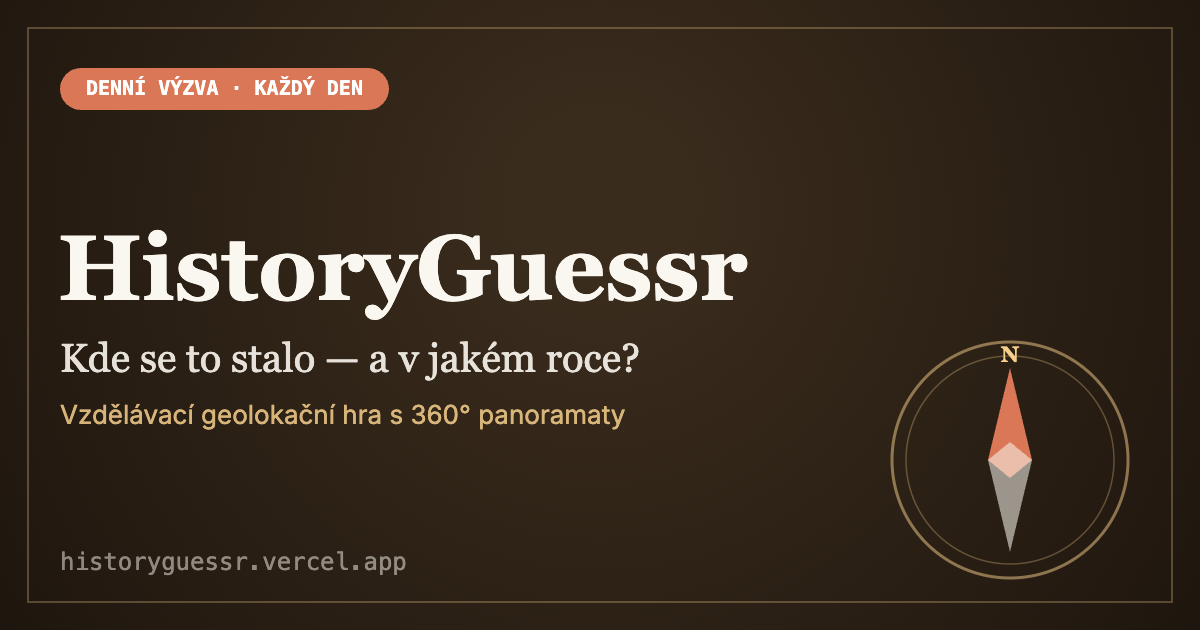
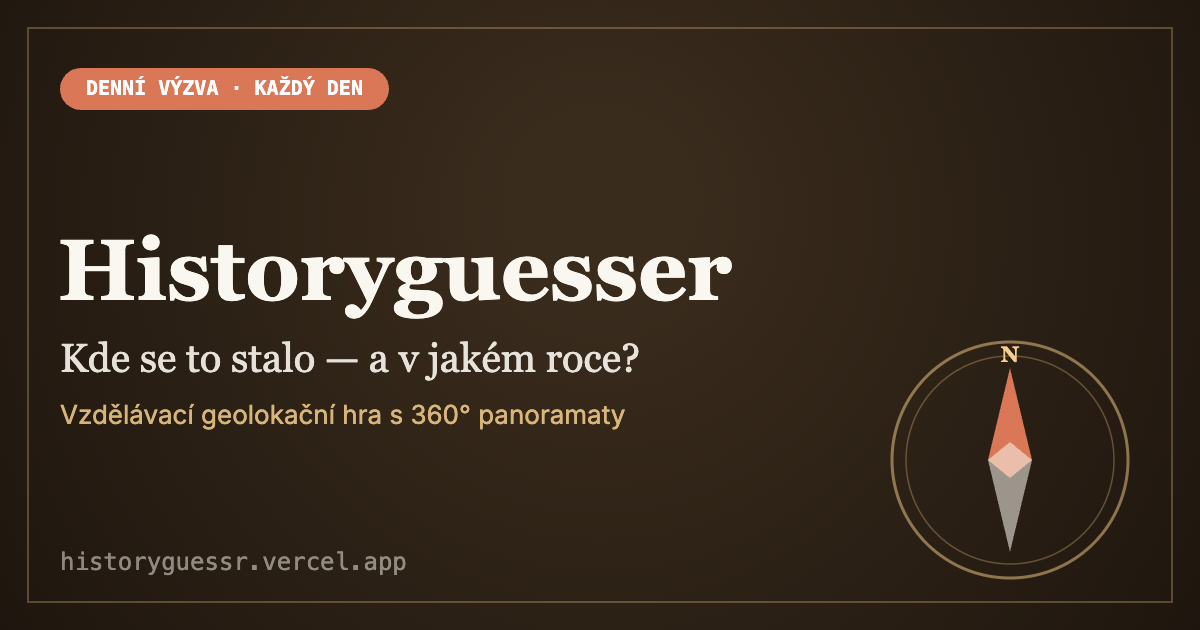
UX + rebrand: mobilní hfov, potvrzení hodnocení, „Historyguesser", AI styl
1) Panorama hfov na mobilu 140→126 (desktop 150 beze změny)
2) Hvězdičkové hodnocení: klik jen vybere, odešle se až tlačítkem „Potvrdit"
3) Přejmenování HistoryGuessr → Historyguesser (UI, meta, manifest, og.png,
   share karta); URL/repo/infra zůstávají
4) AI popis událostí: strhující vyprávěcí styl à la „Životy slavných"
   (generate-event.ts system prompt + temperature 0.2→0.55)

Changed region(s): [[0.0308, 0.3619, 0.6475, 0.5127]]

diff --git a/src/i18n/resources.ts b/src/i18n/resources.ts
@@ -7,7 +7,7 @@ export const resources = {
       lastUpdated: 'Poslední aktualizace',
       privacy: {
         title: 'Zásady ochrany osobních údajů',
-        s1t: '1. Kdo jsme', s1b: 'HistoryGuessr je vzdělávací webová hra dostupná na adrese historyguessr.vercel.app. Provozovatelem aplikace je Matouš Bahník, Liberec, IČO: 21213887.',
+        s1t: '1. Kdo jsme', s1b: 'Historyguesser je vzdělávací webová hra dostupná na adrese historyguessr.vercel.app. Provozovatelem aplikace je Matouš Bahník, Liberec, IČO: 21213887.',
         s2t: '2. Jaké údaje sbíráme', s2intro: 'Při registraci a používání aplikace shromažďujeme:',
         s2i1: 'E-mailová adresa', s2i1d: ' — pro přihlášení a komunikaci',
         s2i2: 'Uživatelské jméno', s2i2d: ' — zobrazované v žebříčcích',
@@ -26,8 +26,8 @@ export const resources = {
       },
       terms: {
         title: 'Podmínky použití',
-        s1t: '1. Přijetí podmínek', s1b: 'Používáním aplikace HistoryGuessr souhlasíte s těmito podmínkami použití. Pokud nesouhlasíte, aplikaci prosím nepoužívejte.',
-        s2t: '2. Popis služby', s2b: 'HistoryGuessr je bezplatná vzdělávací hra, ve které hráči tipují polohu a rok historických událostí na základě 360° panoramatických fotografií.',
+        s1t: '1. Přijetí podmínek', s1b: 'Používáním aplikace Historyguesser souhlasíte s těmito podmínkami použití. Pokud nesouhlasíte, aplikaci prosím nepoužívejte.',
+        s2t: '2. Popis služby', s2b: 'Historyguesser je bezplatná vzdělávací hra, ve které hráči tipují polohu a rok historických událostí na základě 360° panoramatických fotografií.',
         s3t: '3. Uživatelský účet',
         s3i1: 'Registrace vyžaduje platnou e-mailovou adresu',
         s3i2: 'Za bezpečnost svého účtu a hesla odpovídáte vy',
@@ -87,7 +87,7 @@ export const resources = {
       tabScore: 'Skóre', tabInfo: 'O události', location: 'Poloha', correctYear: 'Správný rok', yourGuess: 'Tvůj tip',
       correctYearInline: 'Správný rok:', yourGuessInline: 'Tvůj tip:',
       showTotal: 'Zobrazit celkové výsledky →', nextRound: 'Další kolo →',
-      aboutEvent: 'O události', ratePanorama: 'Ohodnoť kvalitu panoramy', thanks: 'Díky!',
+      aboutEvent: 'O události', ratePanorama: 'Ohodnoť kvalitu panoramy', rateConfirm: 'Potvrdit hodnocení', thanks: 'Díky!',
       loading: 'NAČÍTÁM HISTORII…', retry: 'Zkusit znovu', gameOver: 'Konec hry', accuracy: 'bodů · {{pct}} % přesnost', menu: 'Menu', playAgain: 'Hrát znovu', levelUp: '↑ nový level!', newAchievements: 'Nové achievementy', panoramaUnavailable: 'Panorama se nenačetla', panoramaRetry: 'Zkusit znovu', loadingPanorama: 'Načítám panorama…', quitConfirmTitle: 'Ukončit hru?', quitConfirmBody: 'Přijdeš o rozehranou hru a dosavadní postup se nezapočítá.', quitConfirm: 'Ukončit hru', quitCancel: 'Pokračovat', mapTile: 'Mapa', placeHint: 'Umísti tip', dragHint: 'Táhni a rozhlédni se', tip: 'Tip' },
     stats: { title: 'Tvůj progres', noData: 'Zatím žádná data', noDataSub: 'Zahraj si první hru a sleduj svůj progres tady.', playCta: 'Hrát →',
       overview: 'Přehled', accuracy: 'Přesnost', daily: 'Denní výzva', trend: 'Vývoj výkonu', achievements: 'Achievementy',
@@ -182,7 +182,7 @@ export const resources = {
       errorTitle: 'Něco se pokazilo', errorBody: 'Aplikaci se nepodařilo zobrazit. Zkus obnovit stránku nebo se vrátit do menu.', themeLight: 'Světlý režim', themeDark: 'Tmavý režim', toLight: 'Přepnout na světlý režim', toDark: 'Přepnout na tmavý režim', defaultPlayer: 'Hráči', place: 'Místo', year: 'Rok', next: 'Dále', close: 'Zavřít', reload: 'Obnovit', toMenu: 'Do menu', pts: 'b.', updateReady: 'Je k dispozici nová verze',
       pwMismatch: 'Hesla se neshodují', campaignDone: 'Kampaň dokončena', retryBetter: 'Zkusit znovu na lepší skóre',
       instTile: 'Přidat na plochu', instTileSub: 'Rychlejší přístup, jako pravá appka',
-      instTitle: 'Přidat HistoryGuessr na plochu', instDetected: 'Rozpoznali jsme tvůj prohlížeč — ukážeme ti přesné kroky.',
+      instTitle: 'Přidat Historyguesser na plochu', instDetected: 'Rozpoznali jsme tvůj prohlížeč — ukážeme ti přesné kroky.',
       instOther: 'Mám jiný prohlížeč', instPick: 'Vyber svůj prohlížeč',
       instDontShow: 'Již nezobrazovat na domovské stránce', instClose: 'Zavřít', instDone: 'Hotovo',
       instNotify: 'Nezapomeň povolit oznámení — upozorníme tě na denní výzvu a nové kampaně.',
@@ -216,7 +216,7 @@ export const resources = {
       tagline1: 'Hádej historii.', tagline2: 'Trefuj čas a místo.', eyebrow: 'Vzdělávací geolokační hra',
       bullet: '5 kol · 360° panoramy · tip místa + roku',
       quote: '„Kdo nezná historii, je odsouzen ji znovu prožívat."', quoteAuthor: '— George Santayana',
-      disclaimer: 'HistoryGuessr je fanouškovský vzdělávací projekt. Historické události a panoramata mohou obsahovat nepřesnosti — berte je s rezervou.', legal: 'Používáním aplikace souhlasíš s', terms: 'podmínkami použití', and: 'a', privacy: 'zásadami ochrany údajů',
+      disclaimer: 'Historyguesser je fanouškovský vzdělávací projekt. Historické události a panoramata mohou obsahovat nepřesnosti — berte je s rezervou.', legal: 'Používáním aplikace souhlasíš s', terms: 'podmínkami použití', and: 'a', privacy: 'zásadami ochrany údajů',
     },
     menu: {
       welcomeBack: 'Vítej zpět', greeting: 'Vítej zpět, {{name}}',
@@ -249,7 +249,7 @@ export const resources = {
       lastUpdated: 'Last updated',
       privacy: {
         title: 'Privacy Policy',
-        s1t: '1. Who we are', s1b: 'HistoryGuessr is an educational web game available at historyguessr.vercel.app. The application is operated by Matouš Bahník, Liberec, Czech Republic (Business ID: 21213887).',
+        s1t: '1. Who we are', s1b: 'Historyguesser is an educational web game available at historyguessr.vercel.app. The application is operated by Matouš Bahník, Liberec, Czech Republic (Business ID: 21213887).',
         s2t: '2. What data we collect', s2intro: 'When you register and use the app we collect:',
         s2i1: 'Email address', s2i1d: ' — for sign-in and communication',
         s2i2: 'Username', s2i2d: ' — shown on leaderboards',
@@ -268,8 +268,8 @@ export const resources = {
       },
       terms: {
         title: 'Terms of Use',
-        s1t: '1. Acceptance of terms', s1b: 'By using HistoryGuessr you agree to these terms of use. If you do not agree, please do not use the app.',
-        s2t: '2. Service description', s2b: 'HistoryGuessr is a free educational game in which players guess the location and year of historical events based on 360° panoramic photos.',
+        s1t: '1. Acceptance of terms', s1b: 'By using Historyguesser you agree to these terms of use. If you do not agree, please do not use the app.',
+        s2t: '2. Service description', s2b: 'Historyguesser is a free educational game in which players guess the location and year of historical events based on 360° panoramic photos.',
         s3t: '3. User account',
         s3i1: 'Registration requires a valid email address',
         s3i2: 'You are responsible for the security of your account and password',
@@ -329,7 +329,7 @@ export const resources = {
       tabScore: 'Score', tabInfo: 'About', location: 'Location', correctYear: 'Correct year', yourGuess: 'Your guess',
       correctYearInline: 'Correct year:', yourGuessInline: 'Your guess:',
       showTotal: 'Show total results →', nextRound: 'Next round →',
-      aboutEvent: 'About the event', ratePanorama: 'Rate the panorama quality', thanks: 'Thanks!',
+      aboutEvent: 'About the event', ratePanorama: 'Rate the panorama quality', rateConfirm: 'Confirm rating', thanks: 'Thanks!',
       loading: 'LOADING HISTORY…', retry: 'Try again', gameOver: 'Game over', accuracy: 'points · {{pct}} % accuracy', menu: 'Menu', playAgain: 'Play again', levelUp: '↑ level up!', newAchievements: 'New achievements', panoramaUnavailable: 'Panorama failed to load', panoramaRetry: 'Try again', loadingPanorama: 'Loading panorama…', quitConfirmTitle: 'Quit the game?', quitConfirmBody: 'You will lose this game and your current progress won\'t count.', quitConfirm: 'Quit game', quitCancel: 'Keep playing', mapTile: 'Map', placeHint: 'Drop your pin', dragHint: 'Drag to look around', tip: 'Guess' },
     stats: { title: 'Your progress', noData: 'No data yet', noDataSub: 'Play your first game and track your progress here.', playCta: 'Play →',
       overview: 'Overview', accuracy: 'Accuracy', daily: 'Daily challenge', trend: 'Performance trend', achievements: 'Achievements',
@@ -424,7 +424,7 @@ export const resources = {
       errorTitle: 'Something went wrong', errorBody: 'The app failed to render. Try reloading the page or going back to the menu.', themeLight: 'Light mode', themeDark: 'Dark mode', toLight: 'Switch to light mode', toDark: 'Switch to dark mode', defaultPlayer: 'Player', place: 'Place', year: 'Year', next: 'Next', close: 'Close', reload: 'Reload', toMenu: 'To menu', pts: 'pts', updateReady: 'A new version is available',
       pwMismatch: 'Passwords don’t match', campaignDone: 'Campaign completed', retryBetter: 'Try again for a better score',
       instTile: 'Add to home screen', instTileSub: 'Faster access, like a real app',
-      instTitle: 'Add HistoryGuessr to home screen', instDetected: 'We detected your browser — here are the exact steps.',
+      instTitle: 'Add Historyguesser to home screen', instDetected: 'We detected your browser — here are the exact steps.',
       instOther: 'I use a different browser', instPick: 'Choose your browser',
       instDontShow: 'Don’t show on the home screen again', instClose: 'Close', instDone: 'Done',
       instNotify: 'Don’t forget to allow notifications — we’ll remind you about the daily challenge and new campaigns.',
@@ -458,7 +458,7 @@ export const resources = {
       tagline1: 'Guess history.', tagline2: 'Pin the time and place.', eyebrow: 'Educational geo-guessing game',
       bullet: '5 rounds · 360° panoramas · guess place + year',
       quote: '"Those who cannot remember the past are condemned to repeat it."', quoteAuthor: '— George Santayana',
-      disclaimer: 'HistoryGuessr is a fan-made educational project. Historical events and panoramas may contain inaccuracies — take them with a grain of salt.', legal: 'By using the app you agree to the', terms: 'terms of use', and: 'and', privacy: 'privacy policy',
+      disclaimer: 'Historyguesser is a fan-made educational project. Historical events and panoramas may contain inaccuracies — take them with a grain of salt.', legal: 'By using the app you agree to the', terms: 'terms of use', and: 'and', privacy: 'privacy policy',
     },
     menu: {
       welcomeBack: 'Welcome back', greeting: 'Welcome back, {{name}}',
@@ -491,7 +491,7 @@ export const resources = {
       lastUpdated: 'Zuletzt aktualisiert',
       privacy: {
         title: 'Datenschutzerklärung',
-        s1t: '1. Wer wir sind', s1b: 'HistoryGuessr ist ein lehrreiches Web-Spiel, verfügbar unter historyguessr.vercel.app. Betreiber der Anwendung ist Matouš Bahník, Liberec, Tschechien (ID-Nr.: 21213887).',
+        s1t: '1. Wer wir sind', s1b: 'Historyguesser ist ein lehrreiches Web-Spiel, verfügbar unter historyguessr.vercel.app. Betreiber der Anwendung ist Matouš Bahník, Liberec, Tschechien (ID-Nr.: 21213887).',
         s2t: '2. Welche Daten wir erheben', s2intro: 'Bei der Registrierung und Nutzung der App erheben wir:',
         s2i1: 'E-Mail-Adresse', s2i1d: ' — zur Anmeldung und Kommunikation',
         s2i2: 'Benutzername', s2i2d: ' — wird in Bestenlisten angezeigt',
@@ -510,8 +510,8 @@ export const resources = {
       },
       terms: {
         title: 'Nutzungsbedingungen',
-        s1t: '1. Annahme der Bedingungen', s1b: 'Durch die Nutzung von HistoryGuessr stimmen Sie diesen Nutzungsbedingungen zu. Wenn Sie nicht einverstanden sind, nutzen Sie die App bitte nicht.',
-        s2t: '2. Leistungsbeschreibung', s2b: 'HistoryGuessr ist ein kostenloses Lernspiel, bei dem Spieler den Ort und das Jahr historischer Ereignisse anhand von 360°-Panoramafotos erraten.',
+        s1t: '1. Annahme der Bedingungen', s1b: 'Durch die Nutzung von Historyguesser stimmen Sie diesen Nutzungsbedingungen zu. Wenn Sie nicht einverstanden sind, nutzen Sie die App bitte nicht.',
+        s2t: '2. Leistungsbeschreibung', s2b: 'Historyguesser ist ein kostenloses Lernspiel, bei dem Spieler den Ort und das Jahr historischer Ereignisse anhand von 360°-Panoramafotos erraten.',
         s3t: '3. Benutzerkonto',
         s3i1: 'Die Registrierung erfordert eine gültige E-Mail-Adresse',
         s3i2: 'Für die Sicherheit Ihres Kontos und Passworts sind Sie verantwortlich',
@@ -571,7 +571,7 @@ export const resources = {
       tabScore: 'Punkte', tabInfo: 'Info', location: 'Standort', correctYear: 'Richtiges Jahr', yourGuess: 'Dein Tipp',
       correctYearInline: 'Richtiges Jahr:', yourGuessInline: 'Dein Tipp:',
       showTotal: 'Gesamtergebnis anzeigen →', nextRound: 'Nächste Runde →',
-      aboutEvent: 'Über das Ereignis', ratePanorama: 'Bewerte die Panorama-Qualität', thanks: 'Danke!',
+      aboutEvent: 'Über das Ereignis', ratePanorama: 'Bewerte die Panorama-Qualität', rateConfirm: 'Bewertung bestätigen', thanks: 'Danke!',
       loading: 'GESCHICHTE LÄDT…', retry: 'Erneut versuchen', gameOver: 'Spiel vorbei', accuracy: 'Punkte · {{pct}} % Genauigkeit', menu: 'Menü', playAgain: 'Nochmal spielen', levelUp: '↑ Level auf!', newAchievements: 'Neue Erfolge', panoramaUnavailable: 'Panorama konnte nicht geladen werden', panoramaRetry: 'Erneut versuchen', loadingPanorama: 'Panorama wird geladen…', quitConfirmTitle: 'Spiel beenden?', quitConfirmBody: 'Du verlierst dieses Spiel und dein bisheriger Fortschritt zählt nicht.', quitConfirm: 'Spiel beenden', quitCancel: 'Weiterspielen', mapTile: 'Karte', placeHint: 'Tipp setzen', dragHint: 'Ziehen zum Umsehen', tip: 'Tipp' },
     stats: { title: 'Dein Fortschritt', noData: 'Noch keine Daten', noDataSub: 'Spiele dein erstes Spiel und verfolge deinen Fortschritt hier.', playCta: 'Spielen →',
       overview: 'Überblick', accuracy: 'Genauigkeit', daily: 'Tägliche Challenge', trend: 'Leistungsverlauf', achievements: 'Erfolge',
@@ -666,7 +666,7 @@ export const resources = {
       errorTitle: 'Etwas ist schiefgelaufen', errorBody: 'Die App konnte nicht angezeigt werden. Lade die Seite neu oder kehre zum Menü zurück.', themeLight: 'Heller Modus', themeDark: 'Dunkler Modus', toLight: 'Zum hellen Modus wechseln', toDark: 'Zum dunklen Modus wechseln', defaultPlayer: 'Spieler', place: 'Ort', year: 'Jahr', next: 'Weiter', close: 'Schließen', reload: 'Neu laden', toMenu: 'Zum Menü', pts: 'Pkt.', updateReady: 'Eine neue Version ist verfügbar',
       pwMismatch: 'Passwörter stimmen nicht überein', campaignDone: 'Kampagne abgeschlossen', retryBetter: 'Für eine bessere Punktzahl erneut versuchen',
       instTile: 'Zum Startbildschirm', instTileSub: 'Schnellerer Zugriff, wie eine echte App',
-      instTitle: 'HistoryGuessr zum Startbildschirm', instDetected: 'Wir haben deinen Browser erkannt — hier sind die genauen Schritte.',
+      instTitle: 'Historyguesser zum Startbildschirm', instDetected: 'Wir haben deinen Browser erkannt — hier sind die genauen Schritte.',
       instOther: 'Ich habe einen anderen Browser', instPick: 'Wähle deinen Browser',
       instDontShow: 'Auf der Startseite nicht mehr anzeigen', instClose: 'Schließen', instDone: 'Fertig',
       instNotify: 'Vergiss nicht, Benachrichtigungen zu erlauben — wir erinnern dich an die Tagesherausforderung und neue Kampagnen.',
@@ -700,7 +700,7 @@ export const resources = {
       tagline1: 'Errate die Geschichte.', tagline2: 'Triff Zeit und Ort.', eyebrow: 'Lehrreiches Geo-Ratespiel',
       bullet: '5 Runden · 360°-Panoramen · Ort + Jahr raten',
       quote: '„Wer sich nicht an die Vergangenheit erinnern kann, ist dazu verdammt, sie zu wiederholen."', quoteAuthor: '— George Santayana',
-      disclaimer: 'HistoryGuessr ist ein Fan-Bildungsprojekt. Historische Ereignisse und Panoramen können Ungenauigkeiten enthalten — nimm sie mit Vorsicht.', legal: 'Mit der Nutzung stimmst du den', terms: 'Nutzungsbedingungen', and: 'und der', privacy: 'Datenschutzerklärung',
+      disclaimer: 'Historyguesser ist ein Fan-Bildungsprojekt. Historische Ereignisse und Panoramen können Ungenauigkeiten enthalten — nimm sie mit Vorsicht.', legal: 'Mit der Nutzung stimmst du den', terms: 'Nutzungsbedingungen', and: 'und der', privacy: 'Datenschutzerklärung',
     },
     menu: {
       welcomeBack: 'Willkommen zurück', greeting: 'Willkommen zurück, {{name}}',

diff --git a/src/pages/Game.tsx b/src/pages/Game.tsx
@@ -850,15 +850,14 @@ function StarRating({ eventId }: { eventId: string }) {
   const [hover, setHover] = useState(0)
   const [sent, setSent] = useState(false)
 
-  async function handleRate(rating: number) {
-    if (sent) return
-    setSelected(rating)
+  async function handleConfirm() {
+    if (sent || selected === 0) return
     setSent(true)
-    await addEventRating(eventId, rating)
+    await addEventRating(eventId, selected)
   }
 
   return (
-    <div style={{ display: 'flex', flexDirection: 'column', alignItems: 'center', gap: 8, padding: '14px 0 4px' }}>
+    <div style={{ display: 'flex', flexDirection: 'column', alignItems: 'center', gap: 10, padding: '14px 0 4px' }}>
       <div className="eyebrow" style={{ fontSize: 9 }}>{t('game.ratePanorama')}</div>
       {sent ? (
         <div style={{ display: 'flex', alignItems: 'center', gap: 8 }}>
@@ -870,26 +869,43 @@ function StarRating({ eventId }: { eventId: string }) {
           <span style={{ fontSize: 12, color: 'var(--ink-3)' }}>{t('game.thanks')}</span>
         </div>
       ) : (
-        <div style={{ display: 'flex', gap: 4 }}>
-          {[1,2,3,4,5].map(i => (
-            <button
-              key={i}
-              onMouseEnter={() => setHover(i)}
-              onMouseLeave={() => setHover(0)}
-              onClick={() => handleRate(i)}
-              style={{
-                background: 'none', border: 'none', cursor: 'pointer',
-                fontSize: 28, padding: '2px 4px',
-                color: i <= (hover || selected) ? '#d97757' : 'var(--paper-300)',
-                transition: 'color 100ms, transform 100ms',
-                transform: i <= hover ? 'scale(1.2)' : 'scale(1)',
-                lineHeight: 1,
-              }}
-            >
-              ★
-            </button>
-          ))}
-        </div>
+        <>
+          <div style={{ display: 'flex', gap: 4 }}>
+            {[1,2,3,4,5].map(i => (
+              <button
+                key={i}
+                onMouseEnter={() => setHover(i)}
+                onMouseLeave={() => setHover(0)}
+                onClick={() => setSelected(i)}
+                aria-label={`${i}`}
+                style={{
+                  background: 'none', border: 'none', cursor: 'pointer',
+                  fontSize: 28, padding: '2px 4px',
+                  color: i <= (hover || selected) ? '#d97757' : 'var(--paper-300)',
+                  transition: 'color 100ms, transform 100ms',
+                  transform: i <= hover ? 'scale(1.2)' : 'scale(1)',
+                  lineHeight: 1,
+                }}
+              >
+                ★
+              </button>
+            ))}
+          </div>
+          <button
+            onClick={handleConfirm}
+            disabled={selected === 0}
+            style={{
+              background: selected === 0 ? 'var(--paper-300)' : 'var(--accent)',
+              color: selected === 0 ? 'var(--ink-3)' : '#fff',
+              border: 'none', borderRadius: 10, padding: '8px 18px',
+              fontFamily: 'var(--font-sans)', fontWeight: 700, fontSize: 13,
+              cursor: selected === 0 ? 'default' : 'pointer',
+              transition: 'background 150ms, color 150ms',
+            }}
+          >
+            {t('game.rateConfirm')}
+          </button>
+        </>
       )}
     </div>
   )

diff --git a/api/generate-event.ts b/api/generate-event.ts
@@ -35,7 +35,11 @@ export default async function handler(req: any, res: any) {
   const sys = `Jsi pečlivý asistent pro historii a zeměpis. Z názvu události a roku vrať PŘESNÁ strukturovaná data jako JSON. ` +
     `Pokud si nějakým polem nejsi jistý, vrať null (nehádej souřadnice ani datum). ` +
     `Souřadnice = skutečné místo události. ` +
-    `Popisy piš populárně-naučným stylem (čtivě, poutavě, ale fakticky přesně), každý popis cca 80 slov, bez markdownu. ` +
+    `Popisy (description_cs/en/de) piš jako strhující vypravěč populárně-naučného kanálu ve stylu české „Životy slavných": ` +
+    `vtáhni čtenáře hned první větou, vykresli scénu, atmosféru a lidský rozměr okamžiku, dej vyprávění spád a napětí, ` +
+    `používej konkrétní smyslové detaily a živý jazyk — ALE VŽDY fakticky přesně, nic si nevymýšlej a nepřeháněj. ` +
+    `Každý popis je souvislý plynulý text cca 90–110 slov, bez markdownu, bez nadpisů a odrážek. ` +
+    `Stejný poutavý styl drž ve všech třech jazycích (čeština, angličtina, němčina), ne doslovný překlad, ale přirozené vyprávění v daném jazyce. ` +
     `event_date jen pro n. l. (formát YYYY-MM-DD); pokud je rok př. n. l. nebo datum neznámé, vrať null. ` +
     `year_from/year_to celá čísla (záporná = př. n. l.); u přesné události oba stejné, u nejisté/víceleté rozsah. ` +
     `category jedno z: ${CATEGORIES.join(', ')} nebo null.`
@@ -50,7 +54,7 @@ export default async function handler(req: any, res: any) {
       headers: { 'Content-Type': 'application/json', Authorization: `Bearer ${OPENAI_KEY}` },
       body: JSON.stringify({
         model: 'gpt-4o',
-        temperature: 0.2,
+        temperature: 0.55,
         response_format: { type: 'json_object' },
         messages: [
           { role: 'system', content: sys },
@@ -108,7 +112,7 @@ export default async function handler(req: any, res: any) {
       try {
         const gq = encodeURIComponent(placeQuery)
         const nomRes = await fetch(`https://nominatim.openstreetmap.org/search?q=${gq}&format=json&limit=1&addressdetails=0`, {
-          headers: { 'User-Agent': 'HistoryGuessr/1.0 (admin event geocoding)' },
+          headers: { 'User-Agent': 'Historyguesser/1.0 (admin event geocoding)' },
         })
         if (nomRes.ok) {
           const hits = await nomRes.json()

diff --git a/index.html b/index.html
@@ -3,14 +3,14 @@
   <head>
     <meta charset="UTF-8" />
     <meta name="viewport" content="width=device-width, initial-scale=1.0, viewport-fit=cover" />
-    <title>HistoryGuessr — uhádni místo a rok historické události</title>
+    <title>Historyguesser — uhádni místo a rok historické události</title>
     <meta name="description" content="Uhádni místo a rok historické události. Vzdělávací geolokační hra inspirovaná GeoGuessrem." />
     <link rel="canonical" href="https://historyguessr.vercel.app/" />
 
     <!-- Open Graph (náhledy sdílených odkazů) -->
     <meta property="og:type" content="website" />
-    <meta property="og:site_name" content="HistoryGuessr" />
-    <meta property="og:title" content="HistoryGuessr — uhádni místo a rok historické události" />
+    <meta property="og:site_name" content="Historyguesser" />
+    <meta property="og:title" content="Historyguesser — uhádni místo a rok historické události" />
     <meta property="og:description" content="Vidíš 360° panorama historického místa. Uhádneš, kde na světě je a v jakém roce se událost odehrála?" />
     <meta property="og:url" content="https://historyguessr.vercel.app/" />
     <meta property="og:image" content="https://historyguessr.vercel.app/og.png" />
@@ -22,7 +22,7 @@
 
     <!-- Twitter / X -->
     <meta name="twitter:card" content="summary_large_image" />
-    <meta name="twitter:title" content="HistoryGuessr — uhádni místo a rok historické události" />
+    <meta name="twitter:title" content="Historyguesser — uhádni místo a rok historické události" />
     <meta name="twitter:description" content="Vidíš 360° panorama historického místa. Uhádneš, kde na světě je a v jakém roce se událost odehrála?" />
     <meta name="twitter:image" content="https://historyguessr.vercel.app/og.png" />
 
@@ -33,7 +33,7 @@
     <!-- Apple PWA (přidat na plochu = fullscreen bez Safari lišty) -->
     <meta name="apple-mobile-web-app-capable" content="yes" />
     <meta name="apple-mobile-web-app-status-bar-style" content="black-translucent" />
-    <meta name="apple-mobile-web-app-title" content="HistoryGuessr" />
+    <meta name="apple-mobile-web-app-title" content="Historyguesser" />
     <link rel="apple-touch-icon" href="/icon-192.png" />
 
     <!-- Fonts -->

diff --git a/src/pages/ResetPassword.tsx b/src/pages/ResetPassword.tsx
@@ -54,7 +54,7 @@ export default function ResetPasswordPage() {
   return (
     <div style={{ minHeight: '100dvh', background: 'var(--paper-200)', display: 'flex', alignItems: 'center', justifyContent: 'center', padding: 24 }}>
       <div style={{ width: '100%', maxWidth: 400, background: 'var(--surface)', border: '1px solid var(--line)', borderRadius: 18, padding: 'clamp(24px, 6vw, 36px)', boxShadow: 'var(--shadow-lg)' }}>
-        <p style={{ fontFamily: 'var(--font-mono)', fontSize: 10, letterSpacing: '0.18em', color: 'var(--accent-deep)', textTransform: 'uppercase', margin: 0 }}>HistoryGuessr</p>
+        <p style={{ fontFamily: 'var(--font-mono)', fontSize: 10, letterSpacing: '0.18em', color: 'var(--accent-deep)', textTransform: 'uppercase', margin: 0 }}>Historyguesser</p>
         <h1 style={{ fontFamily: 'var(--font-serif)', fontSize: 28, letterSpacing: '-0.02em', margin: '8px 0 6px' }}>{t('reset.title')}</h1>
 
         {done ? (

diff --git a/src/lib/panorama.ts b/src/lib/panorama.ts
@@ -1,9 +1,9 @@
 // Výchozí hfov (horizontální zorné pole) panoramatu.
-// Na desktopu širší záběr (méně „přiblížené"), na mobilu ponecháváme 140,
-// protože na výšku by ještě širší hfov působil jako rybí oko.
+// Na desktopu širší záběr (méně „přiblížené"), na mobilu užší (126) —
+// na výšku by širší hfov působil jako rybí oko a scéna byla moc „daleko".
 export function panoramaHfov(): number {
   if (typeof window !== 'undefined' && window.innerWidth >= 900) return 150
-  return 140
+  return 126
 }
 
 /**

diff --git a/src/components/DesktopSidebar.tsx b/src/components/DesktopSidebar.tsx
@@ -54,7 +54,7 @@ export default function DesktopSidebar({ streak }: { streak?: number }) {
             <circle cx="16" cy="16" r="2.3" fill="#fff"/>
           </svg>
         </div>
-        <span style={{ fontFamily: 'var(--font-serif)', fontSize: 18, letterSpacing: '-0.01em', color: 'var(--ink)' }}>HistoryGuessr</span>
+        <span style={{ fontFamily: 'var(--font-serif)', fontSize: 18, letterSpacing: '-0.01em', color: 'var(--ink)' }}>Historyguesser</span>
       </button>
 
       <div style={{ display: 'flex', flexDirection: 'column', gap: 3 }}>

diff --git a/src/pages/Privacy.tsx b/src/pages/Privacy.tsx
@@ -19,7 +19,7 @@ export default function PrivacyPage() {
       }}>
         <BackButton onClick={() => navigate(-1)} label={t('legal.back')} />
         <div>
-          <div className="eyebrow" style={{ fontSize: 9 }}>HistoryGuessr</div>
+          <div className="eyebrow" style={{ fontSize: 9 }}>Historyguesser</div>
           <h1 style={{ fontFamily: 'var(--font-serif)', fontSize: 18, margin: 0, letterSpacing: '-0.01em' }}>
             {t('legal.privacy.title')}
           </h1>

diff --git a/src/pages/Terms.tsx b/src/pages/Terms.tsx
@@ -19,7 +19,7 @@ export default function TermsPage() {
       }}>
         <BackButton onClick={() => navigate(-1)} label={t('legal.back')} />
         <div>
-          <div className="eyebrow" style={{ fontSize: 9 }}>HistoryGuessr</div>
+          <div className="eyebrow" style={{ fontSize: 9 }}>Historyguesser</div>
           <h1 style={{ fontFamily: 'var(--font-serif)', fontSize: 18, margin: 0, letterSpacing: '-0.01em' }}>
             {t('legal.terms.title')}
           </h1>

diff --git a/src/pages/Daily.tsx b/src/pages/Daily.tsx
@@ -576,7 +576,7 @@ function DailyResultScreen({ event, result, guessLat, guessLng, guessYear, leade
     betterThan,
   }
   const shareText = [
-    `HistoryGuessr · ${t('menu.dailyMobile')} · ${dateLabel}`,
+    `Historyguesser · ${t('menu.dailyMobile')} · ${dateLabel}`,
     `★ ${result.totalScore} / 1000`,
     `${t('common.place')}: ${formatDistance(result.distKm)} · ${t('common.year')}: ${yearLabel}`,
     'historyguessr.vercel.app',

diff --git a/src/pages/Menu.tsx b/src/pages/Menu.tsx
@@ -632,7 +632,7 @@ function Wordmark() {
           <circle cx="16" cy="16" r="2.3" fill="#fff"/>
         </svg>
       </div>
-      <span style={{ fontFamily: 'var(--font-serif)', fontSize: 18, letterSpacing: '-0.01em', color: 'var(--ink)' }}>HistoryGuessr</span>
+      <span style={{ fontFamily: 'var(--font-serif)', fontSize: 18, letterSpacing: '-0.01em', color: 'var(--ink)' }}>Historyguesser</span>
     </div>
   )
 }

diff --git a/src/lib/shareCard.ts b/src/lib/shareCard.ts
@@ -101,7 +101,7 @@ export async function renderDailyShareCard(d: ShareCardData): Promise<Blob> {
   c.fillStyle = 'rgba(245,241,232,0.62)'
   c.font = '600 30px "JetBrains Mono", ui-monospace, monospace'
   c.letterSpacing = '10px'
-  c.fillText('HISTORYGUESSR', W / 2, 268)
+  c.fillText('HISTORYGUESSER', W / 2, 268)
   c.letterSpacing = '0px'
 
   // Eyebrow + datum
